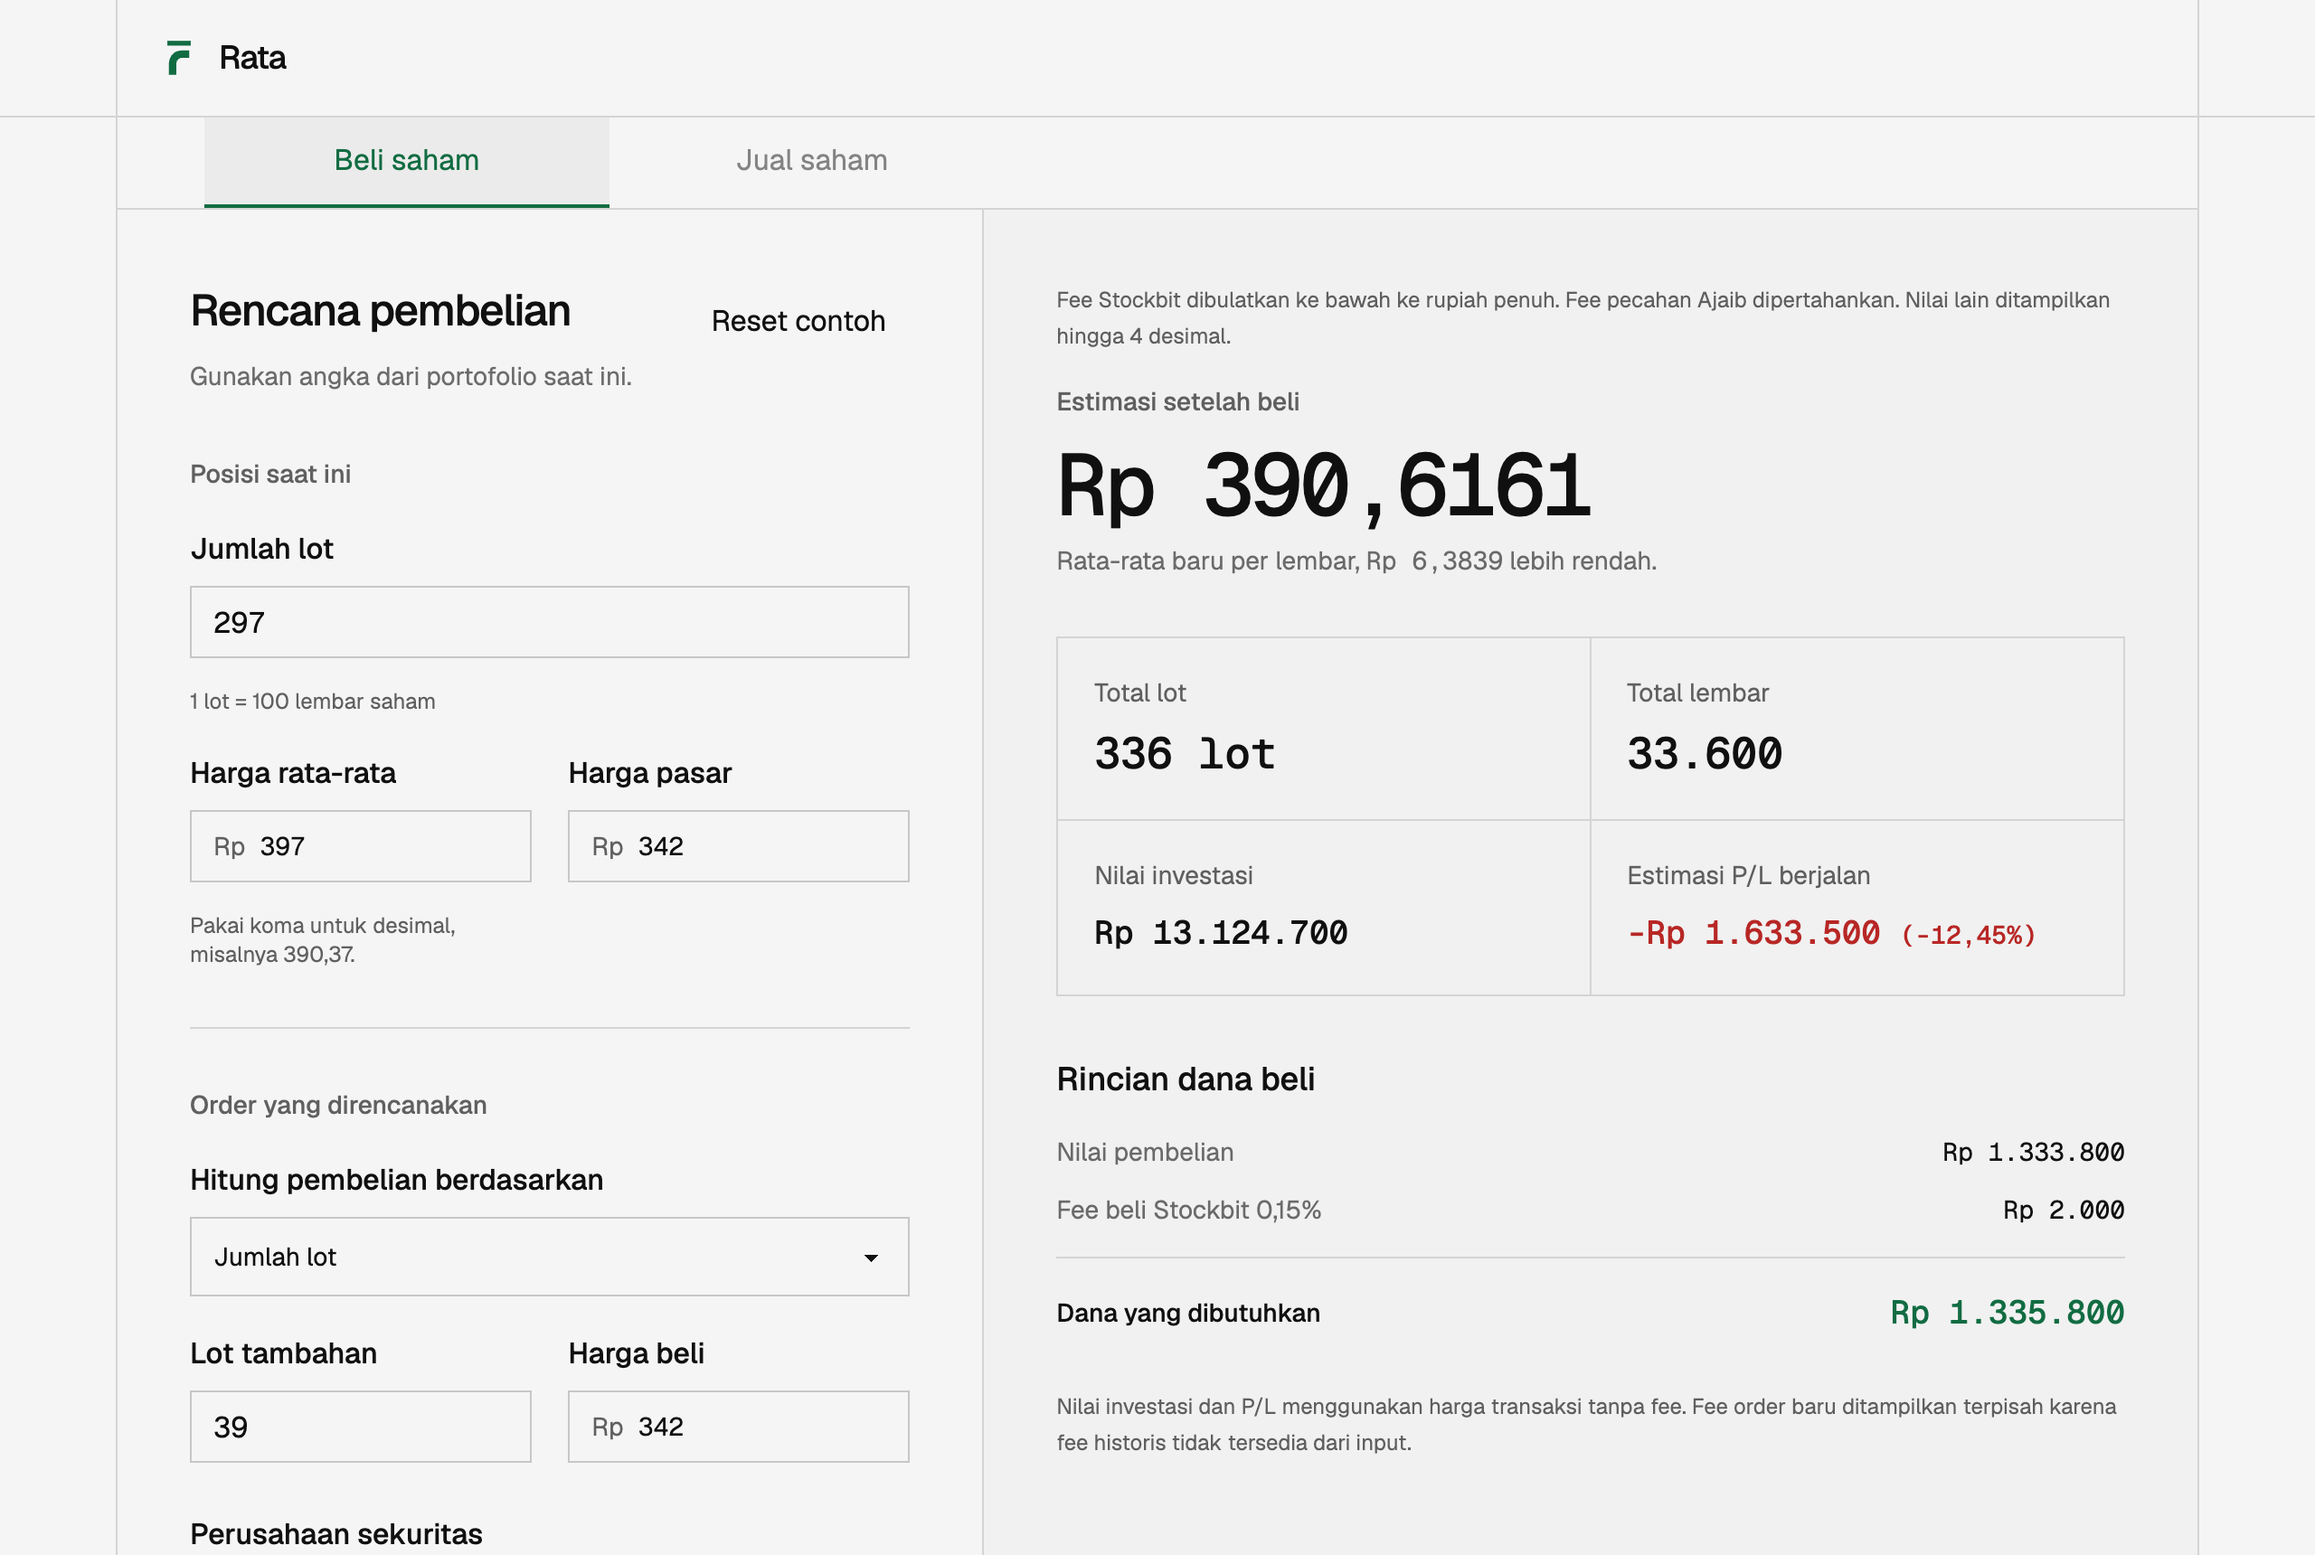
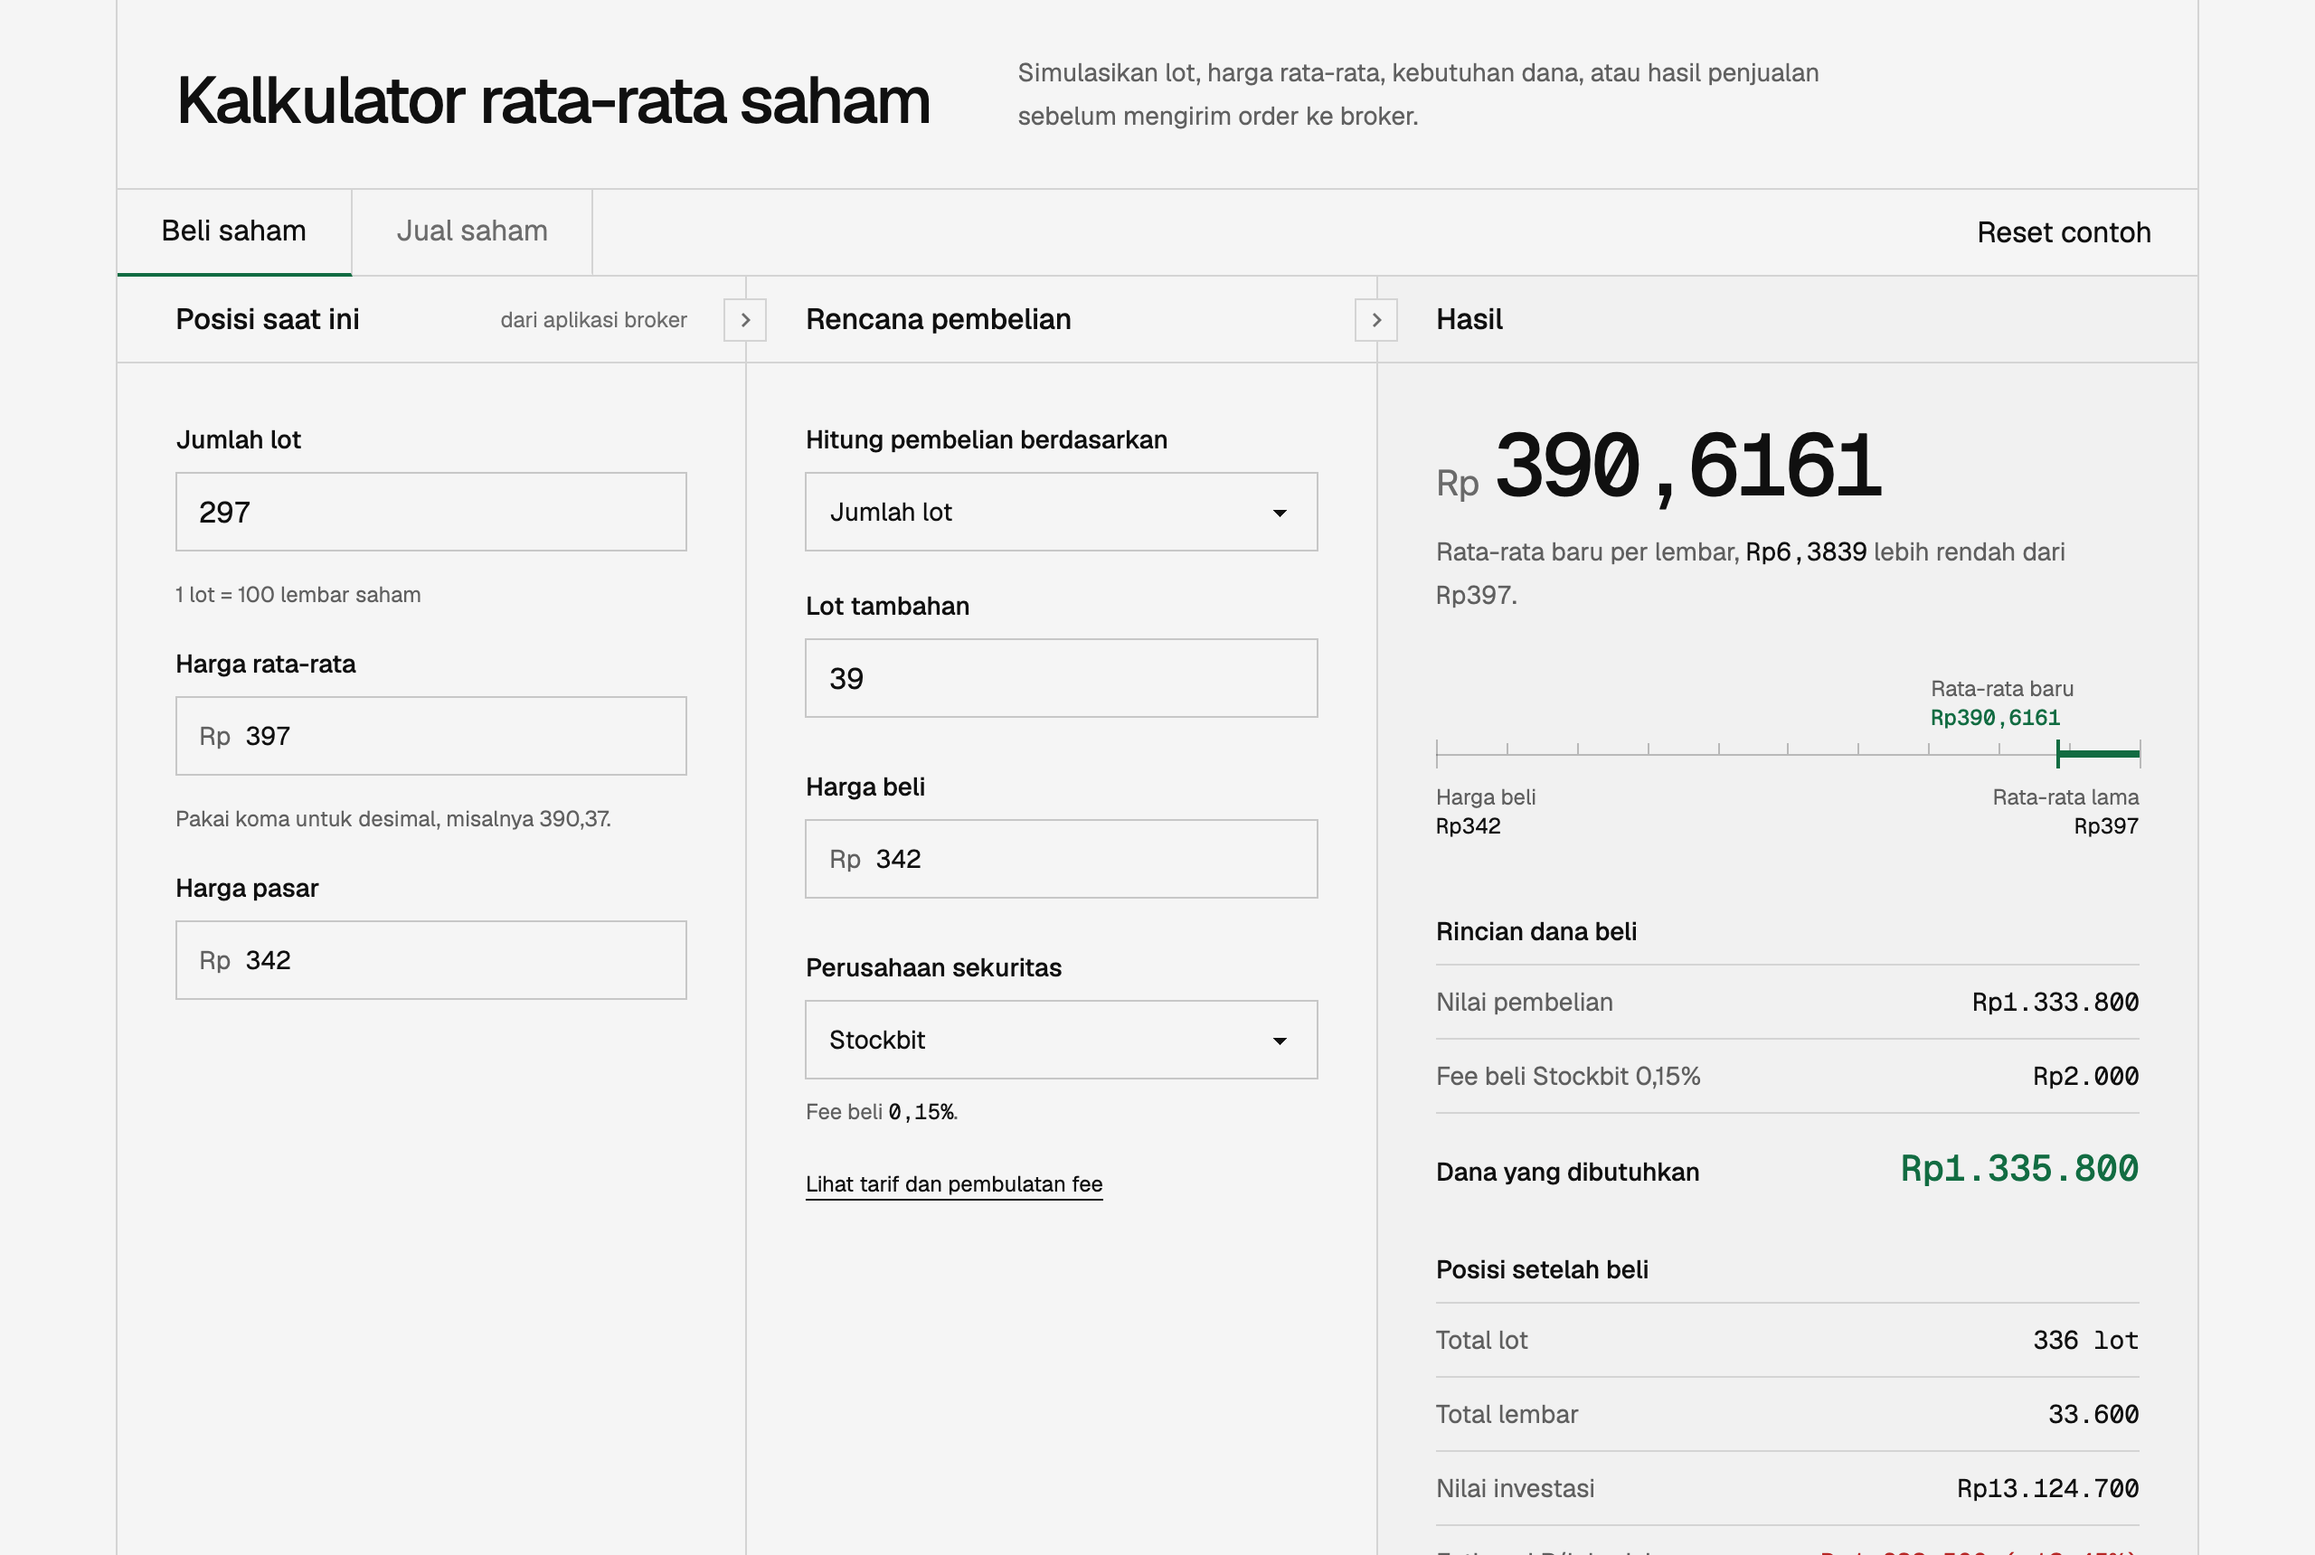
docs: refresh screenshots for the redesigned calculator
The README and the PWA install dialog both use these captures. Sizes stay at
2560x1720 and 780x1688 to match the manifest entries.

diff --git a/README.md b/README.md
@@ -13,9 +13,9 @@ Live at [rata.ekel.dev](https://rata.ekel.dev).
 These show the default example: 297 lots at an average of Rp397, buying or selling 39 lots at
 Rp342 through Stockbit.
 
-| Buy                                                                                               | Sell                                                                                          |
-| ------------------------------------------------------------------------------------------------- | --------------------------------------------------------------------------------------------- |
-| ![Buy tab showing a new average of Rp390,6161 and Rp1.335.800 needed](static/screenshots/buy.png) | ![Sell tab showing Rp1.330.466 net proceeds and a realized loss](static/screenshots/sell.png) |
+| Buy                                                                                               | Sell                                                                                         |
+| ------------------------------------------------------------------------------------------------- | -------------------------------------------------------------------------------------------- |
+| ![Buy tab showing a new average of Rp390,6161 and Rp1.335.800 needed](static/screenshots/buy.png) | ![Sell tab showing Rp1.330.466 net proceeds after the sell fee](static/screenshots/sell.png) |
 
 | Dark mode                                            | Mobile                                                                                               |
 | ---------------------------------------------------- | ---------------------------------------------------------------------------------------------------- |
